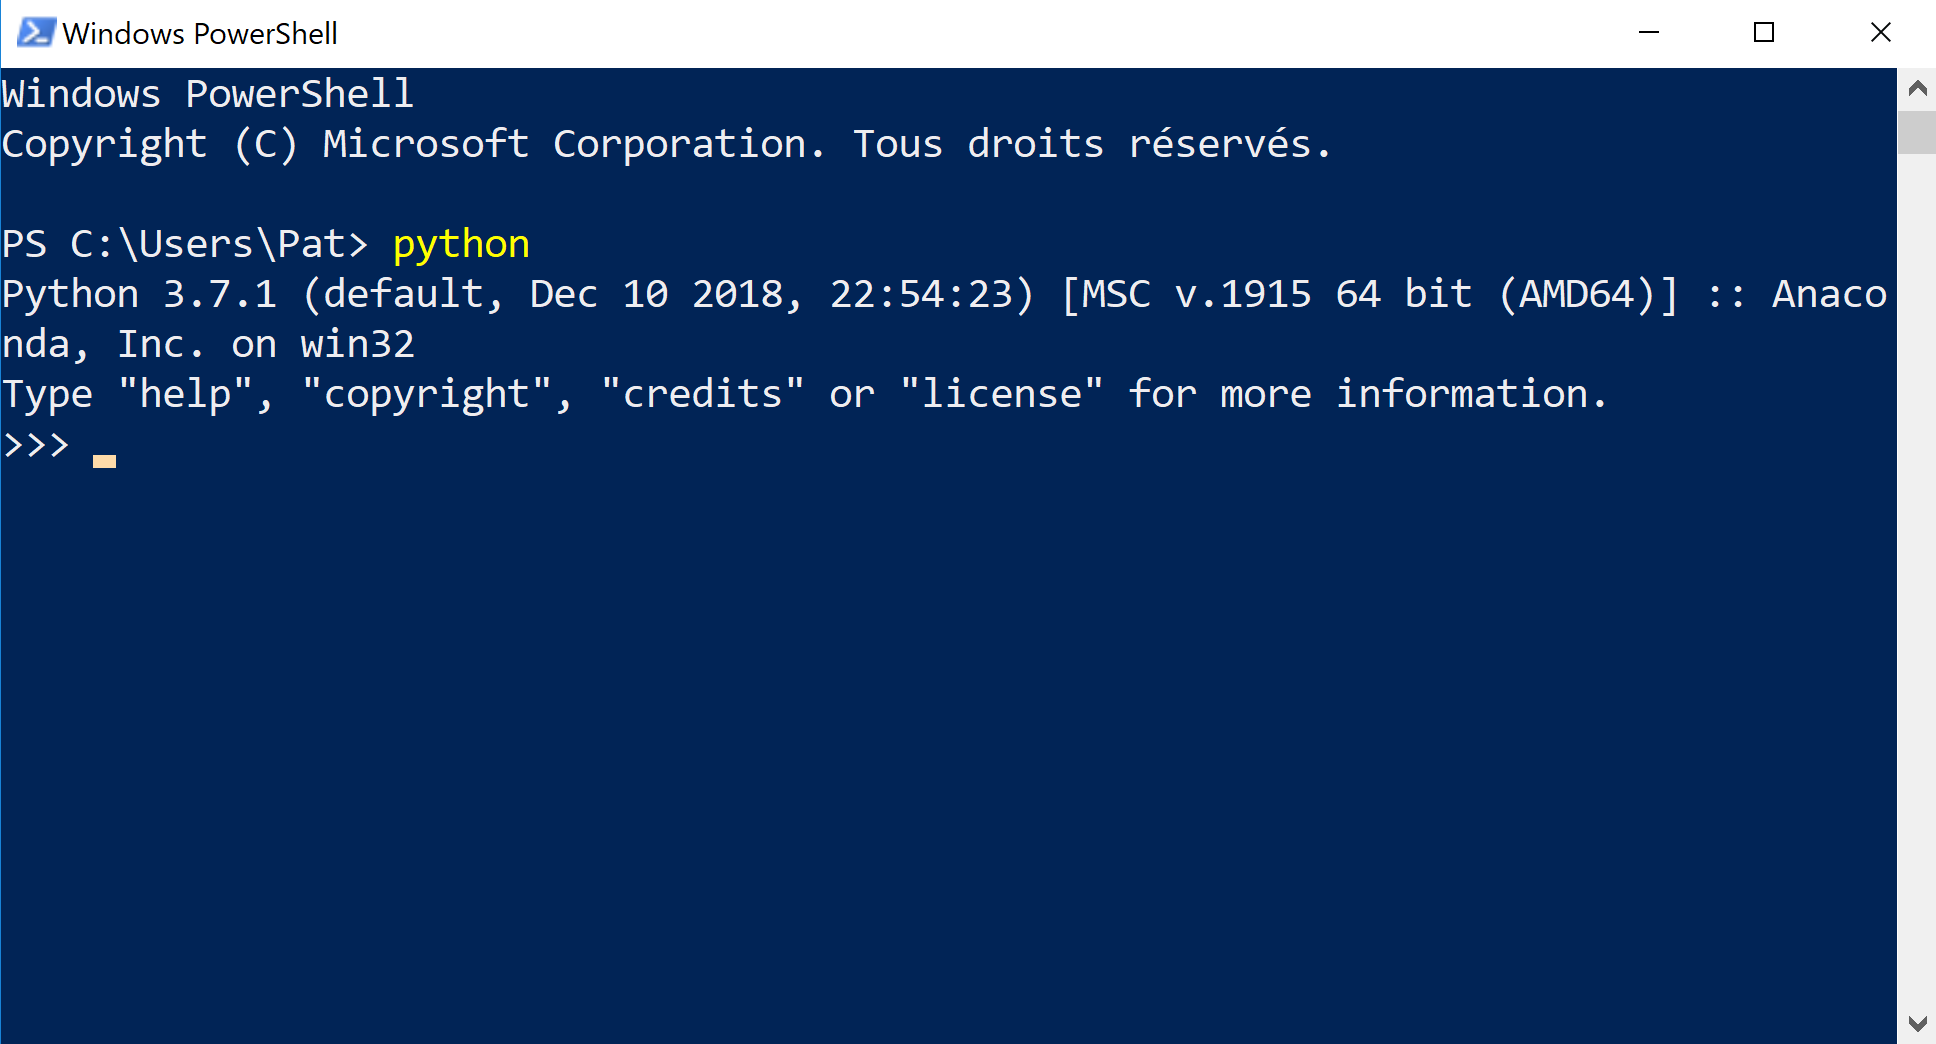
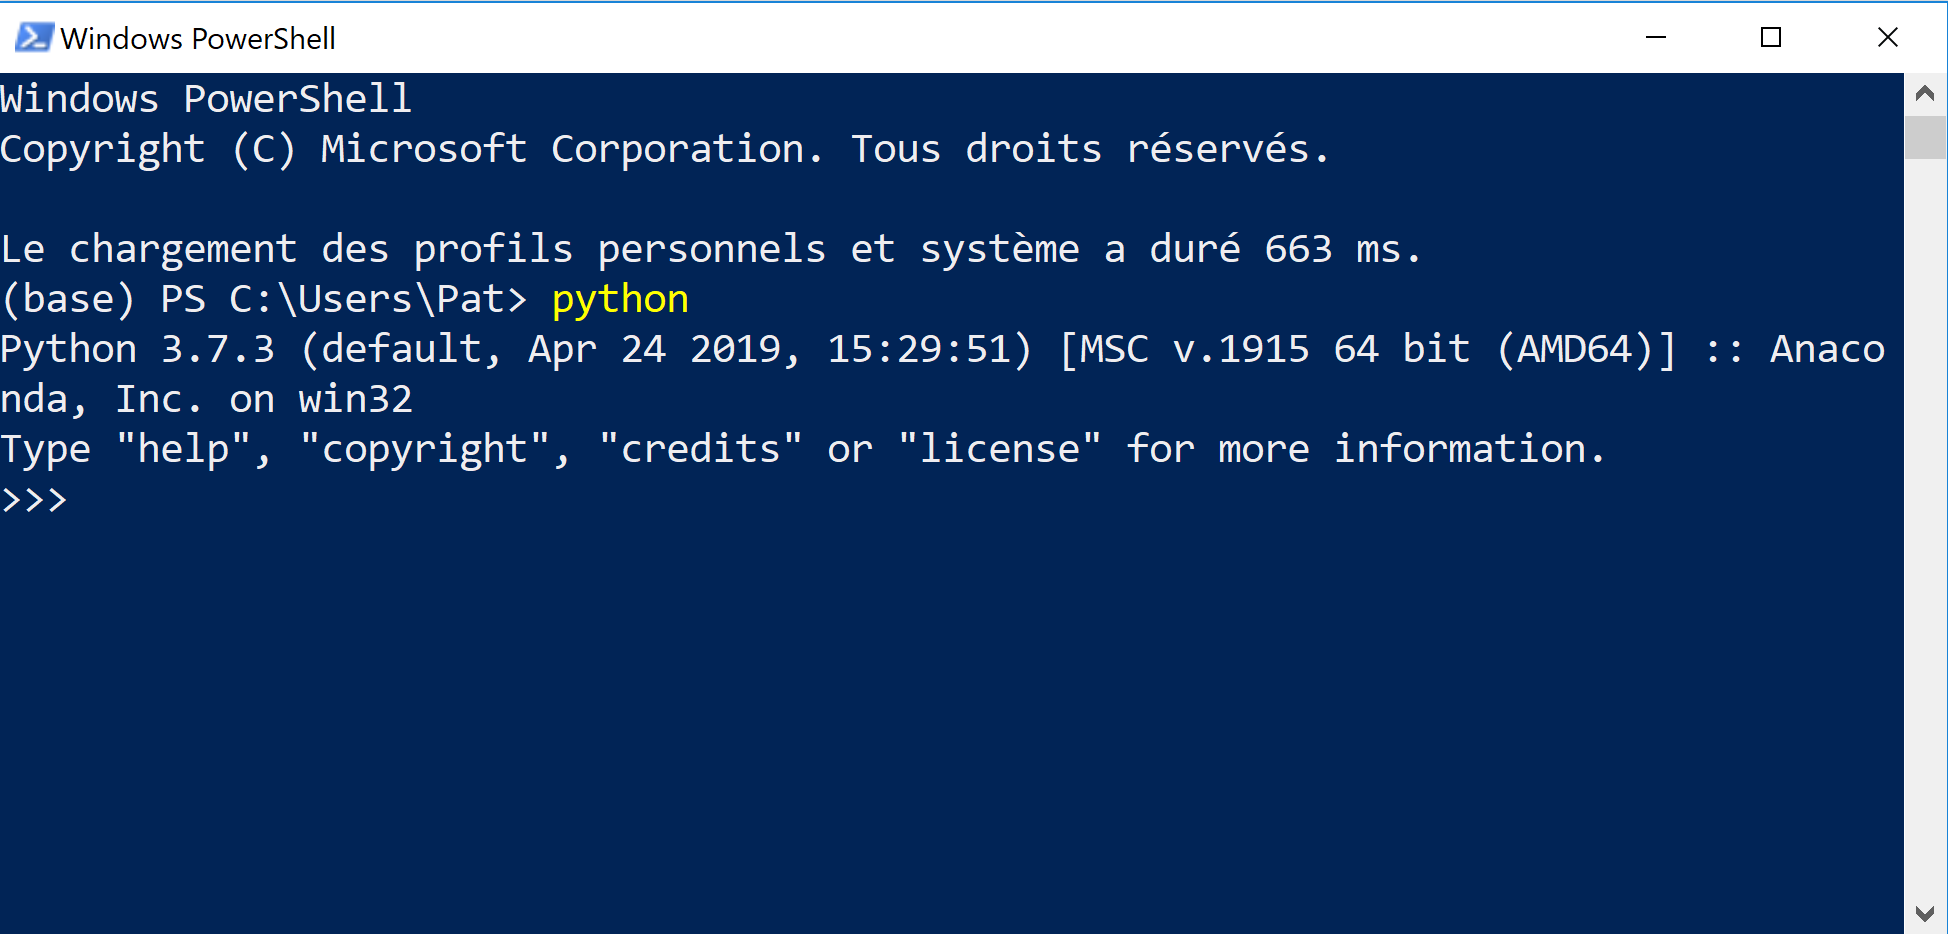
Mets à jour test interpréteur

diff --git a/annexe_install_python.md b/annexe_install_python.md
@@ -155,7 +155,7 @@ Nous partons du principe qu'aucune version d'Anaconda, Miniconda, ou encore de P
 
 close-box-warn
 
-- Dans un navigateur internet, ouvrez la page du site Miniconda <https://conda.io/miniconda.html> puis cliquez sur le lien *64-bit (exe installer)* correspondant à Windows et Python 3.7. Bien sur, si votre machine est en 32-bit (ce qui est maintenant assez rare), vous cliquerez sur le lien *32-bit (exe installer)*. Vous allez télécharger un fichier dont le nom ressemble à quelque chose du type : `Miniconda3-latest-Windows-x86_64.exe`.
+- Dans un navigateur internet, ouvrez la page du site Miniconda <https://conda.io/miniconda.html> puis cliquez sur le lien *64-bit (exe installer)* correspondant à Windows et Python 3.7. Bien sûr, si votre machine est en 32-bit (ce qui est maintenant assez rare), vous cliquerez sur le lien *32-bit (exe installer)*. Vous allez télécharger un fichier dont le nom ressemble à quelque chose du type : `Miniconda3-latest-Windows-x86_64.exe`.
 
 - Une fois téléchargé, double-cliquez sur ce fichier, cela lancera l'installateur de Miniconda :
 
@@ -205,7 +205,7 @@ Il nous faut maintenant initialiser *conda*. Cette manipulation va permettre de 
 
 L'installateur a en principe ajouté une nouvelle section dans le Menu Démarrer nommée `Anaconda3 (64-bit)` :
 
-![Menu Anaconda Powershell Prompt](cours/img/menu_anaconda_W10.png){ #fig:menu_anaconda_W10 width=40% }
+![Menu Anaconda Powershell Prompt](img/menu_anaconda_W10.png){ #fig:menu_anaconda_W10 width=40% }
 \
 
 Cette section contient deux éléments :
@@ -215,7 +215,7 @@ Cette section contient deux éléments :
 
 Nous allons maintenant initialiser *conda* « à la main ». Cliquez sur `Anaconda Powershell Prompt (Miniconda3)` qui va lancer un Powershell avec *conda* activé, puis tapez la commande `conda init` :
 
-![Initialisation de conda](cours/img/conda_init_W10.png){ #fig:conda_init_W10 width=60% }
+![Initialisation de conda](img/conda_init_W10.png){ #fig:conda_init_W10 width=60% }
 \
 
 Lorsque vous presserez la touche Entrée vous obtiendrez une sortie de ce style :
@@ -249,7 +249,11 @@ modified      HKEY_CURRENT_USER\Software\Microsoft\Command Processor\AutoRun
 ==> For changes to take effect, close and re-open your current shell. <==
 ```
 
-A noter, cette manipulation créera automatiquement un fichier `C:\Users\nom_utilisateur\Documents\WindowsPowerShell\profile.ps1`. Ce fichier sera exécuté à chaque lancement d'un Powershell (équivalent du `.bashrc` sous bash) et fera en sorte que *conda* soit bien activé.
+A noter, cette manipulation créera automatiquement un fichier 
+
+`C:\Users\nom_utilisateur\Documents\WindowsPowerShell\profile.ps1`. 
+
+Ce fichier sera exécuté à chaque lancement d'un Powershell (équivalent du `.bashrc` sous bash) et fera en sorte que *conda* soit bien activé.
 
 #### Test de l'interpréteur Python
 
@@ -258,16 +262,16 @@ Nous sommes maintenant prêts à tester l'interpréteur Python. En premier lieu,
 ![Menu pour lancer un PowerShell.](img/menu_Windows10_powershell.png){ #fig:miniconda_launch_shell width=40% }
 \
 
-Cliquez sur l'icône `Windows PowerShell`, cela va lancer un *shell* PowerShell avec un fond bleu (couleur que l'on peut bien sûr modifier en cliquant sur la petite icône représentant un terminal dans la barre de titre). Pour tester si Python est bien installé, il suffit alors de lancer l'interpréteur Python en tapant la commande `python` :
+Cliquez sur l'icône `Windows PowerShell`, cela va lancer un *shell* PowerShell avec un fond bleu (couleur que l'on peut bien sûr modifier en cliquant sur la petite icône représentant un terminal dans la barre de titre). En principe, l'invite du shell doit ressembler à `(base) PS C:\Users\Pat>`. La partie `(base)` indique que conda a bien été activé suite à l'initialisation faite si dessus (plus exactement c'est son environnement de base qui est activé, mais ça ne nous importe pas pour l'instant). Pour tester si Python est bien installé, il suffit alors de lancer l'interpréteur Python en tapant la commande `python` :
 
 ![Lancement de l'interpréteur Python dans un PowerShell.](img/test_python_powershell.png){ #fig:miniconda_test_interpreter width=60% }
 \
 
-Si tout s'est bien passé, vous devriez avoir l'affichage suivant :
+Si tout s'est bien passé, vous devriez avoir un affichage de ce style :
 
 ```
-PS C:\Users\Pat> python
-Python 3.7.1 (default, Dec 10 2018, 22:54:23) [MSC v.1915 64 bit (AMD64)] :: Anaconda, Inc. on win32
+(base) PS C:\Users\Pat> python
+Python 3.7.3 (default, Apr 24 2019, 15:29:51) [MSC v.1915 64 bit (AMD64)] :: Anaconda, Inc. on win32
 Type "help", "copyright", "credits" or "license" for more information.
 >>>
 ```
@@ -279,7 +283,7 @@ Cela signifie que vous êtes bien dans l'interpréteur Python. À partir de là 
 Une fois revenu dans le *shell*, tapez la commande `conda`, vous devriez obtenir :
 
 ```
-PS C:\Users\Pat> conda
+(base) PS C:\Users\Pat> conda
 usage: conda-script.py [-h] [-V] command ...
 
 conda is a tool for managing and deploying applications, environments and packages.
@@ -317,7 +321,7 @@ optional arguments:
 
 conda commands available from other packages:
   env
-PS C:\Users\Pat>
+(base) PS C:\Users\Pat>
 ```
 
 Si c'est le cas, bravo, *conda* est bien installé et vous pouvez passez à la suite (rendez-vous à la rubrique [Installation des modules supplémentaires](#installation-des-modules-supplémentaires)) !
